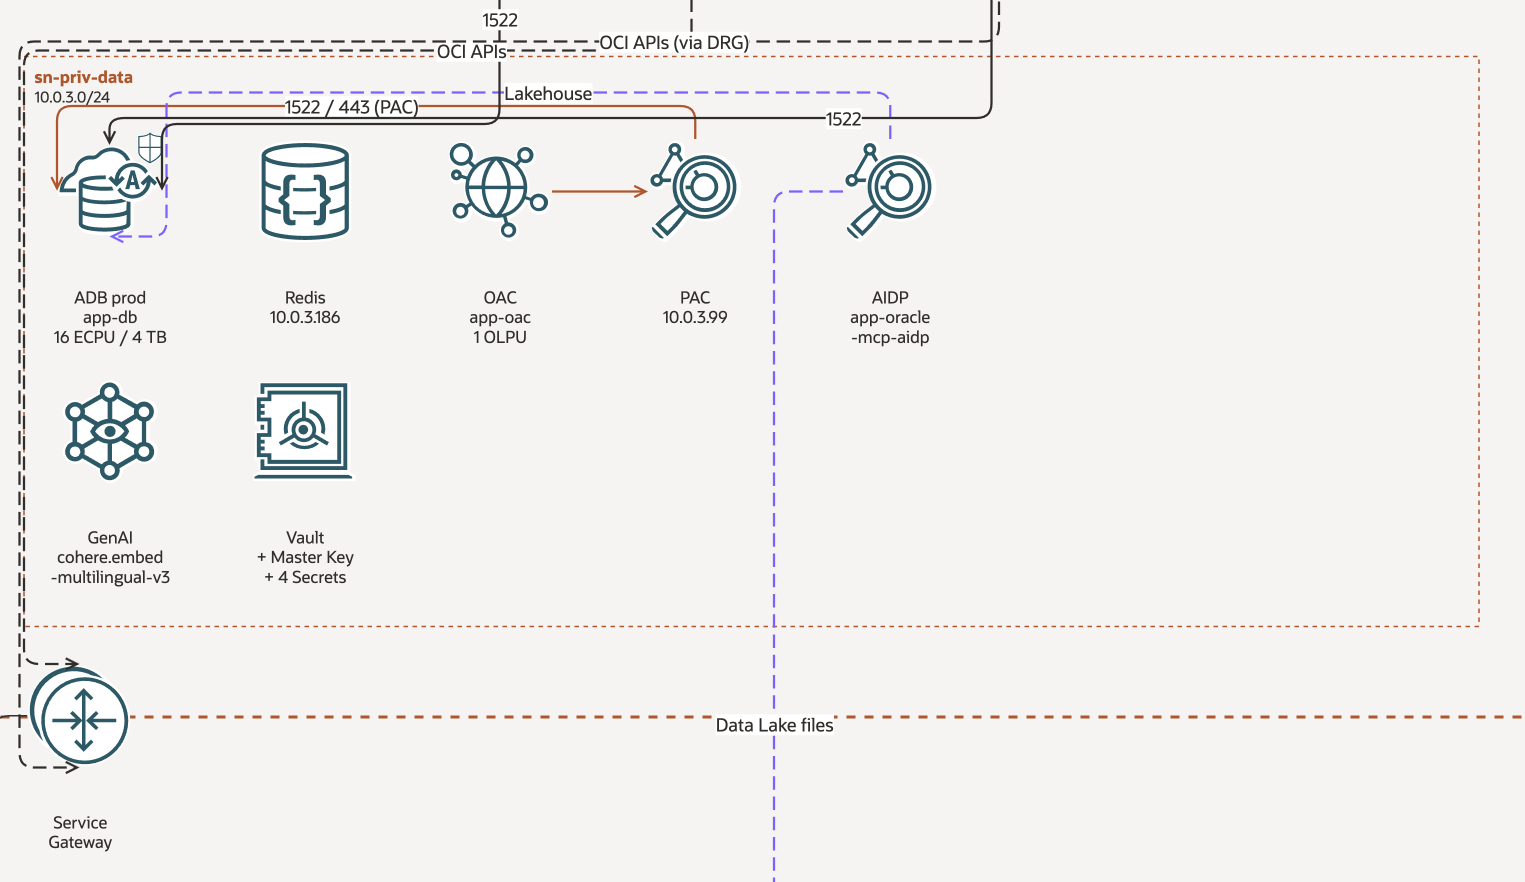
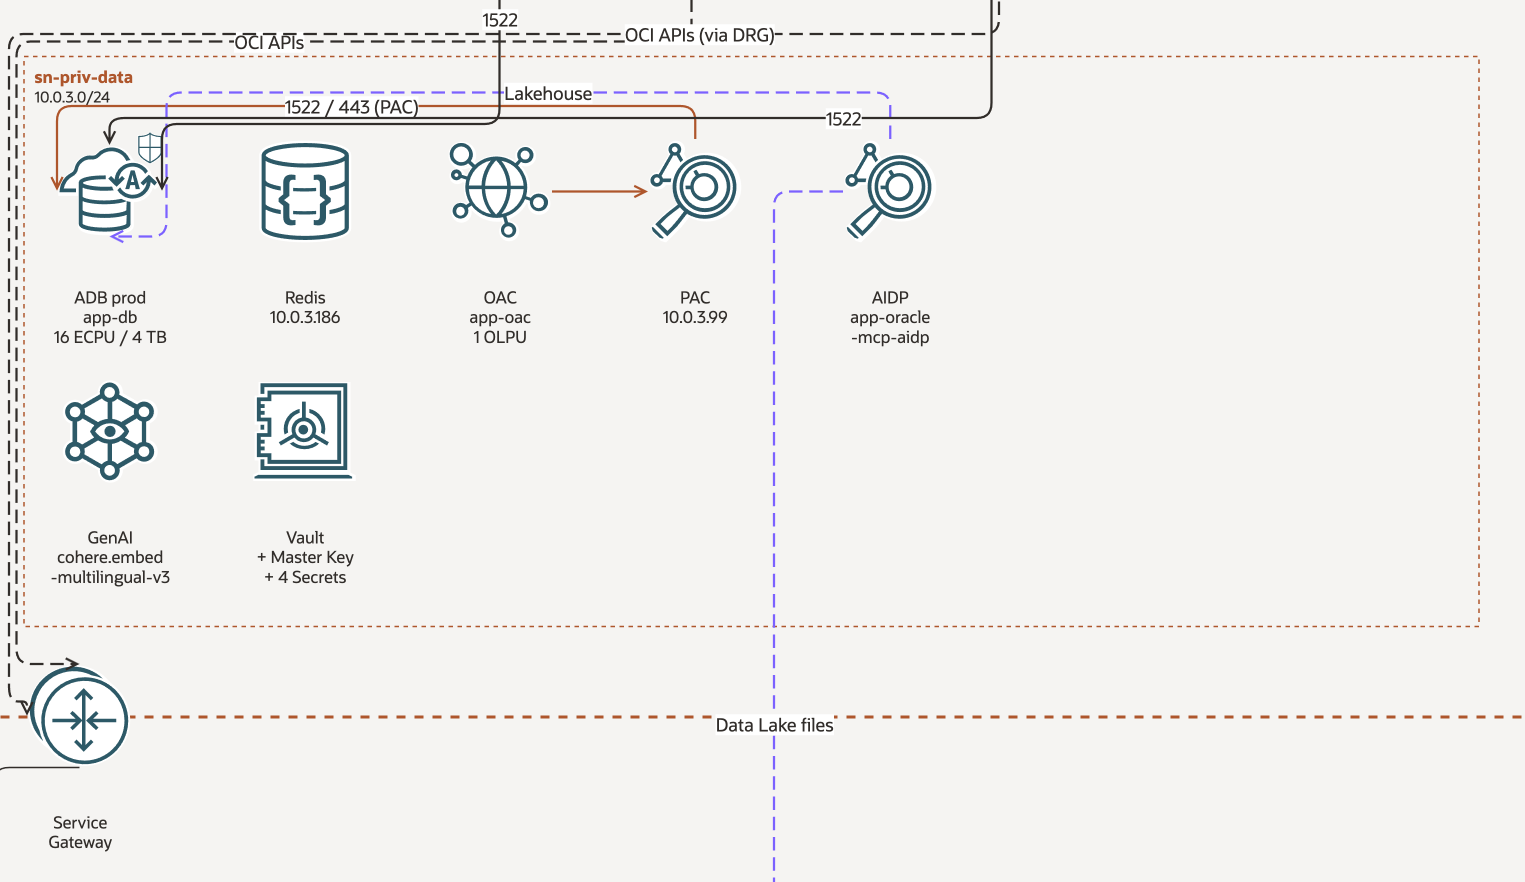
fix: charge the auto-router for running along a container border
A gateway glyph straddles its VCN's border, so its docking point sits
exactly on the border line and the routing lattice offered a free lane
down the whole of every other container's border at the same y. In the
standard hub-and-spoke model the IGW -> Internet connector therefore ran
the full width of the next VCN's dashed top edge instead of crossing it.

_build_lattice now records, per segment, the containers whose border the
segment lies on (within STRADDLE_TOL) and _dijkstra charges _LANE_COST
for each one that is not an endpoint. Reference sample and README
screenshots regenerated; two regression tests (builder and layout).

Changed region(s): [[0.0, 0.0306, 0.6472, 0.8265], [0.0, 0.8571, 0.0616, 0.8878]]

diff --git a/oci-drawio-architect/scripts/drawio_builder.py b/oci-drawio-architect/scripts/drawio_builder.py
@@ -2407,6 +2407,13 @@ class DrawioBuilder:
     _OBSTACLE_COST = 1000.0   # crossing an icon / caption / text cell
     _FOREIGN_COST = 250.0     # running through a container that is not an ancestor
     _BEND_COST = 45.0         # each change of direction
+    # running ALONG a container border instead of crossing it: a gateway icon
+    # straddles the border, so its docking point sits exactly on the border
+    # line and the lattice offers a free lane down the whole of it. Charging
+    # the lane keeps connectors in the gutters and makes them cross a border
+    # perpendicularly, as the Oracle canvases draw them.
+    _LANE_COST = 150.0
+    _LANE_TOL = STRADDLE_TOL  # how close to a border counts as "on" it
     _LINE_MARGIN = 10.0       # corridor distance from container borders
 
     def _routing_shapes(self, page_idx):
@@ -2506,28 +2513,44 @@ class DrawioBuilder:
         grp_items = list(groups.items())
         h_obs = [[()] * max(nx - 1, 0) for _ in range(ny)]
         h_grp = [[()] * max(nx - 1, 0) for _ in range(ny)]
+        h_lane = [[()] * max(nx - 1, 0) for _ in range(ny)]
         v_obs = [[()] * max(ny - 1, 0) for _ in range(nx)]
         v_grp = [[()] * max(ny - 1, 0) for _ in range(nx)]
+        v_lane = [[()] * max(ny - 1, 0) for _ in range(nx)]
+        tol = self._LANE_TOL
         for j, y in enumerate(ys):
             row_obs = [(oid, b) for oid, b in obs_items if b.y + 0.5 < y < b.bottom - 0.5]
             row_grp = [(gid, b) for gid, b in grp_items if b.y + 0.5 < y < b.bottom - 0.5]
+            # a horizontal line within tol of a container's top or bottom edge
+            # runs along that border rather than across it
+            row_lane = [(gid, b) for gid, b in grp_items
+                        if abs(y - b.y) <= tol or abs(y - b.bottom) <= tol]
             for i in range(nx - 1):
                 x0, x1 = xs[i], xs[i + 1]
                 if row_obs:
                     h_obs[j][i] = tuple(oid for oid, b in row_obs if x1 > b.x + 0.5 and x0 < b.right - 0.5)
                 if row_grp:
                     h_grp[j][i] = tuple(gid for gid, b in row_grp if x0 >= b.x - 0.5 and x1 <= b.right + 0.5)
+                if row_lane:
+                    h_lane[j][i] = tuple(gid for gid, b in row_lane
+                                         if x1 > b.x + 0.5 and x0 < b.right - 0.5)
         for i, x in enumerate(xs):
             col_obs = [(oid, b) for oid, b in obs_items if b.x + 0.5 < x < b.right - 0.5]
             col_grp = [(gid, b) for gid, b in grp_items if b.x + 0.5 < x < b.right - 0.5]
+            col_lane = [(gid, b) for gid, b in grp_items
+                        if abs(x - b.x) <= tol or abs(x - b.right) <= tol]
             for j in range(ny - 1):
                 y0, y1 = ys[j], ys[j + 1]
                 if col_obs:
                     v_obs[i][j] = tuple(oid for oid, b in col_obs if y1 > b.y + 0.5 and y0 < b.bottom - 0.5)
                 if col_grp:
                     v_grp[i][j] = tuple(gid for gid, b in col_grp if y0 >= b.y - 0.5 and y1 <= b.bottom + 0.5)
+                if col_lane:
+                    v_lane[i][j] = tuple(gid for gid, b in col_lane
+                                         if y1 > b.y + 0.5 and y0 < b.bottom - 0.5)
         return {"xs": xs, "ys": ys, "xi": xi, "yi": yi, "h_obs": h_obs, "h_grp": h_grp,
-                "v_obs": v_obs, "v_grp": v_grp, "groups": groups, "obstacles": obstacles}
+                "h_lane": h_lane, "v_obs": v_obs, "v_grp": v_grp, "v_lane": v_lane,
+                "groups": groups, "obstacles": obstacles}
 
     def _ancestors(self, cid):
         out = set()
@@ -2555,8 +2578,10 @@ class DrawioBuilder:
         xs, ys = lat["xs"], lat["ys"]
         nx, ny = len(xs), len(ys)
         h_obs, h_grp, v_obs, v_grp = lat["h_obs"], lat["h_grp"], lat["v_obs"], lat["v_grp"]
+        h_lane, v_lane = lat["h_lane"], lat["v_lane"]
         used = lat.setdefault("used", {})
         OB, FO, BE, SH = self._OBSTACLE_COST, self._FOREIGN_COST, self._BEND_COST, self._SHARED_COST
+        LA = self._LANE_COST
 
         def seg_cost(i, j, horizontal, step):
             if horizontal:
@@ -2564,6 +2589,7 @@ class DrawioBuilder:
                 length = xs[ii + 1] - xs[ii]
                 obs = h_obs[j][ii]
                 grp = h_grp[j][ii]
+                lane = h_lane[j][ii]
                 mid = ((xs[ii] + xs[ii + 1]) / 2, ys[j])
                 shared = used.get(("h", j, ii), 0)
             else:
@@ -2571,6 +2597,7 @@ class DrawioBuilder:
                 length = ys[jj + 1] - ys[jj]
                 obs = v_obs[i][jj]
                 grp = v_grp[i][jj]
+                lane = v_lane[i][jj]
                 mid = (xs[i], (ys[jj] + ys[jj + 1]) / 2)
                 shared = used.get(("v", i, jj), 0)
             cost = length + SH * shared
@@ -2580,6 +2607,9 @@ class DrawioBuilder:
             for g in grp:
                 if g not in allowed:
                     cost += FO
+            for g in lane:
+                if g not in exclude_ids:
+                    cost += LA
             for b in endpoint_boxes:   # never tunnel through the endpoints themselves
                 if b.x + 0.5 < mid[0] < b.right - 0.5 and b.y + 0.5 < mid[1] < b.bottom - 0.5:
                     cost += OB

diff --git a/oci-drawio-architect/tests/test_builder.py b/oci-drawio-architect/tests/test_builder.py
@@ -1202,6 +1202,33 @@ class TestRouterQuality(TempDirMixin, unittest.TestCase):
         self.assertNotEqual(tokens(cell(d.root, eid).get("style")).get("exitY"), "1")
         self._assert_no_segment_in_caption_gap(d, eid)
 
+    def test_edge_does_not_travel_along_a_foreign_containers_border(self):
+        """A gateway glyph straddles its container's border, so its docking
+        point sits exactly on the border line and the lattice offers a free
+        lane down the whole of the NEXT container's border too. The router
+        must pay for that lane and cross the border instead of riding it."""
+        d = DrawioBuilder()
+        page = d.add_group("Region", 0, 0, 1000, 500, group_type="region")
+        left = d.add_group("Left", 40, 120, 300, 300, parent=page, group_type="vcn")
+        right = d.add_group("Right", 420, 120, 300, 300, parent=page, group_type="vcn")
+        d.add_icon("Web", "vm", 60, 60, parent=right)
+        # the gateway straddles Left's top border, exactly like an IGW
+        gw = d.add_icon("Internet\nGateway", "internet_gateway", 240, 80,
+                        parent=page, caption_above=True)
+        far = d.add_icon("Customers", "user", 820, 60, parent=page)
+        eid = d.add_edge(gw, far, "", kind="attachment")
+        d.validate()
+        poly = d._cells[eid]["polyline"]
+        rx, ry, rw, _rh = d.abs_bbox(right)
+        for (x0, y0), (x1, y1) in zip(poly, poly[1:]):
+            if abs(y0 - y1) > 0.01:
+                continue                                   # vertical run
+            on_border = abs(y0 - ry) <= DrawioBuilder._LANE_TOL
+            overlaps = min(x0, x1) < rx + rw and max(x0, x1) > rx
+            self.assertFalse(on_border and overlaps,
+                             f"segment {(x0, y0)}->{(x1, y1)} rides the top border of {right}")
+        self.assertEqual([w for w in d.validate() if w.startswith("ERROR")], [])
+
     def _assert_no_segment_in_caption_gap(self, d, eid):
         """No horizontal run of the edge may sit between an endpoint's glyph
         and that endpoint's caption (the builder's stated routing intent)."""

diff --git a/oci-drawio-architect/tests/test_oci_layout.py b/oci-drawio-architect/tests/test_oci_layout.py
@@ -1525,6 +1525,24 @@ class GatewayEdgeTests(unittest.TestCase):
         self.assertEqual(d.abs_bbox("igw2")[0] + ol.GW_SIDE_DX, sx + sw)       # spoke: right border
         self.assertEqual(errors_of(d), [])
 
+    def test_the_igw_internet_connector_does_not_ride_a_vcn_border(self):
+        """A top-border IGW's docking point sits exactly on the VCN border
+        line, so the lattice offers a free lane along every other VCN's top
+        border at the same y. The connector must leave that lane."""
+        d = quiet(ol.build_diagram, self._two_column_model())
+        d.validate()
+        poly = d._cells["igw-internet"]["polyline"]
+        self.assertTrue(poly)
+        for cid in ("vcn-hub", "vcn-spoke"):
+            vx, vy, vw, vh = d.abs_bbox(cid)
+            for (x0, y0), (x1, y1) in zip(poly, poly[1:]):
+                if abs(y0 - y1) > 0.01:
+                    continue                                    # vertical run
+                rides = min(abs(y0 - vy), abs(y0 - (vy + vh))) <= db.STRADDLE_TOL
+                overlaps = min(x0, x1) < vx + vw and max(x0, x1) > vx
+                self.assertFalse(rides and overlaps,
+                                 f"{(x0, y0)}->{(x1, y1)} rides a border of {cid}")
+
     def test_every_igw_is_tied_to_the_internet_box(self):
         """One attachment connector per IGW, mirroring SGW -> OSN."""
         d = quiet(ol.build_diagram, CANVAS_HYBRID)

diff --git a/oci-drawio-architect/CHANGELOG.md b/oci-drawio-architect/CHANGELOG.md
@@ -27,6 +27,10 @@ Placement enrichments: the location boxes leave the region, the gateways face wh
 - The reference sample and the README screenshots are regenerated on the outside canvas; the demo grows a fourth page (compartments, a tenancy wrapper, an OKE cluster box and a tier band).
 - `validate_model()` covers every new key and both `compartments` element forms; `summarise()` reports the compartment and group-box counts. A `groups[]` member is checked inside its own container (subnet groups name items of that subnet, VCN groups name subnets of that VCN) and an edge may terminate on a `groups[].key`.
 
+### Fixed
+- A top-border gateway no longer covers the VCN's own title. Top slots are counted from the VCN's right edge inwards, but the width reserved for them was a constant, so on a narrow VCN - the usual hub column of a hub-and-spoke model - the leftmost slot landed on the container's top-left title band. The reservation now measures the title (each line at the size it is drawn in) and widens the VCN instead. A container title is not a cell, so `validate()` could not see the collision.
+- The auto-router no longer travels ALONG a container border. A gateway glyph straddles the border, so its docking point sits exactly on the border line and the lattice offered a free lane down the whole of every other container's border at that y - the IGW -> Internet connector of a hub-and-spoke model ran the full width of the next VCN's dashed top edge. A segment within `STRADDLE_TOL` of a container's border now costs `_LANE_COST`, so connectors stay in the gutters and cross a border perpendicularly. The reference sample and the README screenshots are regenerated.
+
 ### Known cosmetic limitations
 - The location canvas top-aligns every box with the region and gives them its full height (`LOC_PAD_Y = 0`, toolkit Template 1), so a tall, near-empty On-Premises or Internet box has a lot of white space; likewise between the VCN stack and the Oracle Services Network band, and below or right of a compartment whose sibling is taller.
 - The `Site-to-Site VPN` label is centred on the whole horizontal run of its connector, which starts inside the On-Premises box; in `drg_style: "box"` that can put it slightly past the region border. It never overlaps a shape. Centring it on the gap segment alone needs a router change.
